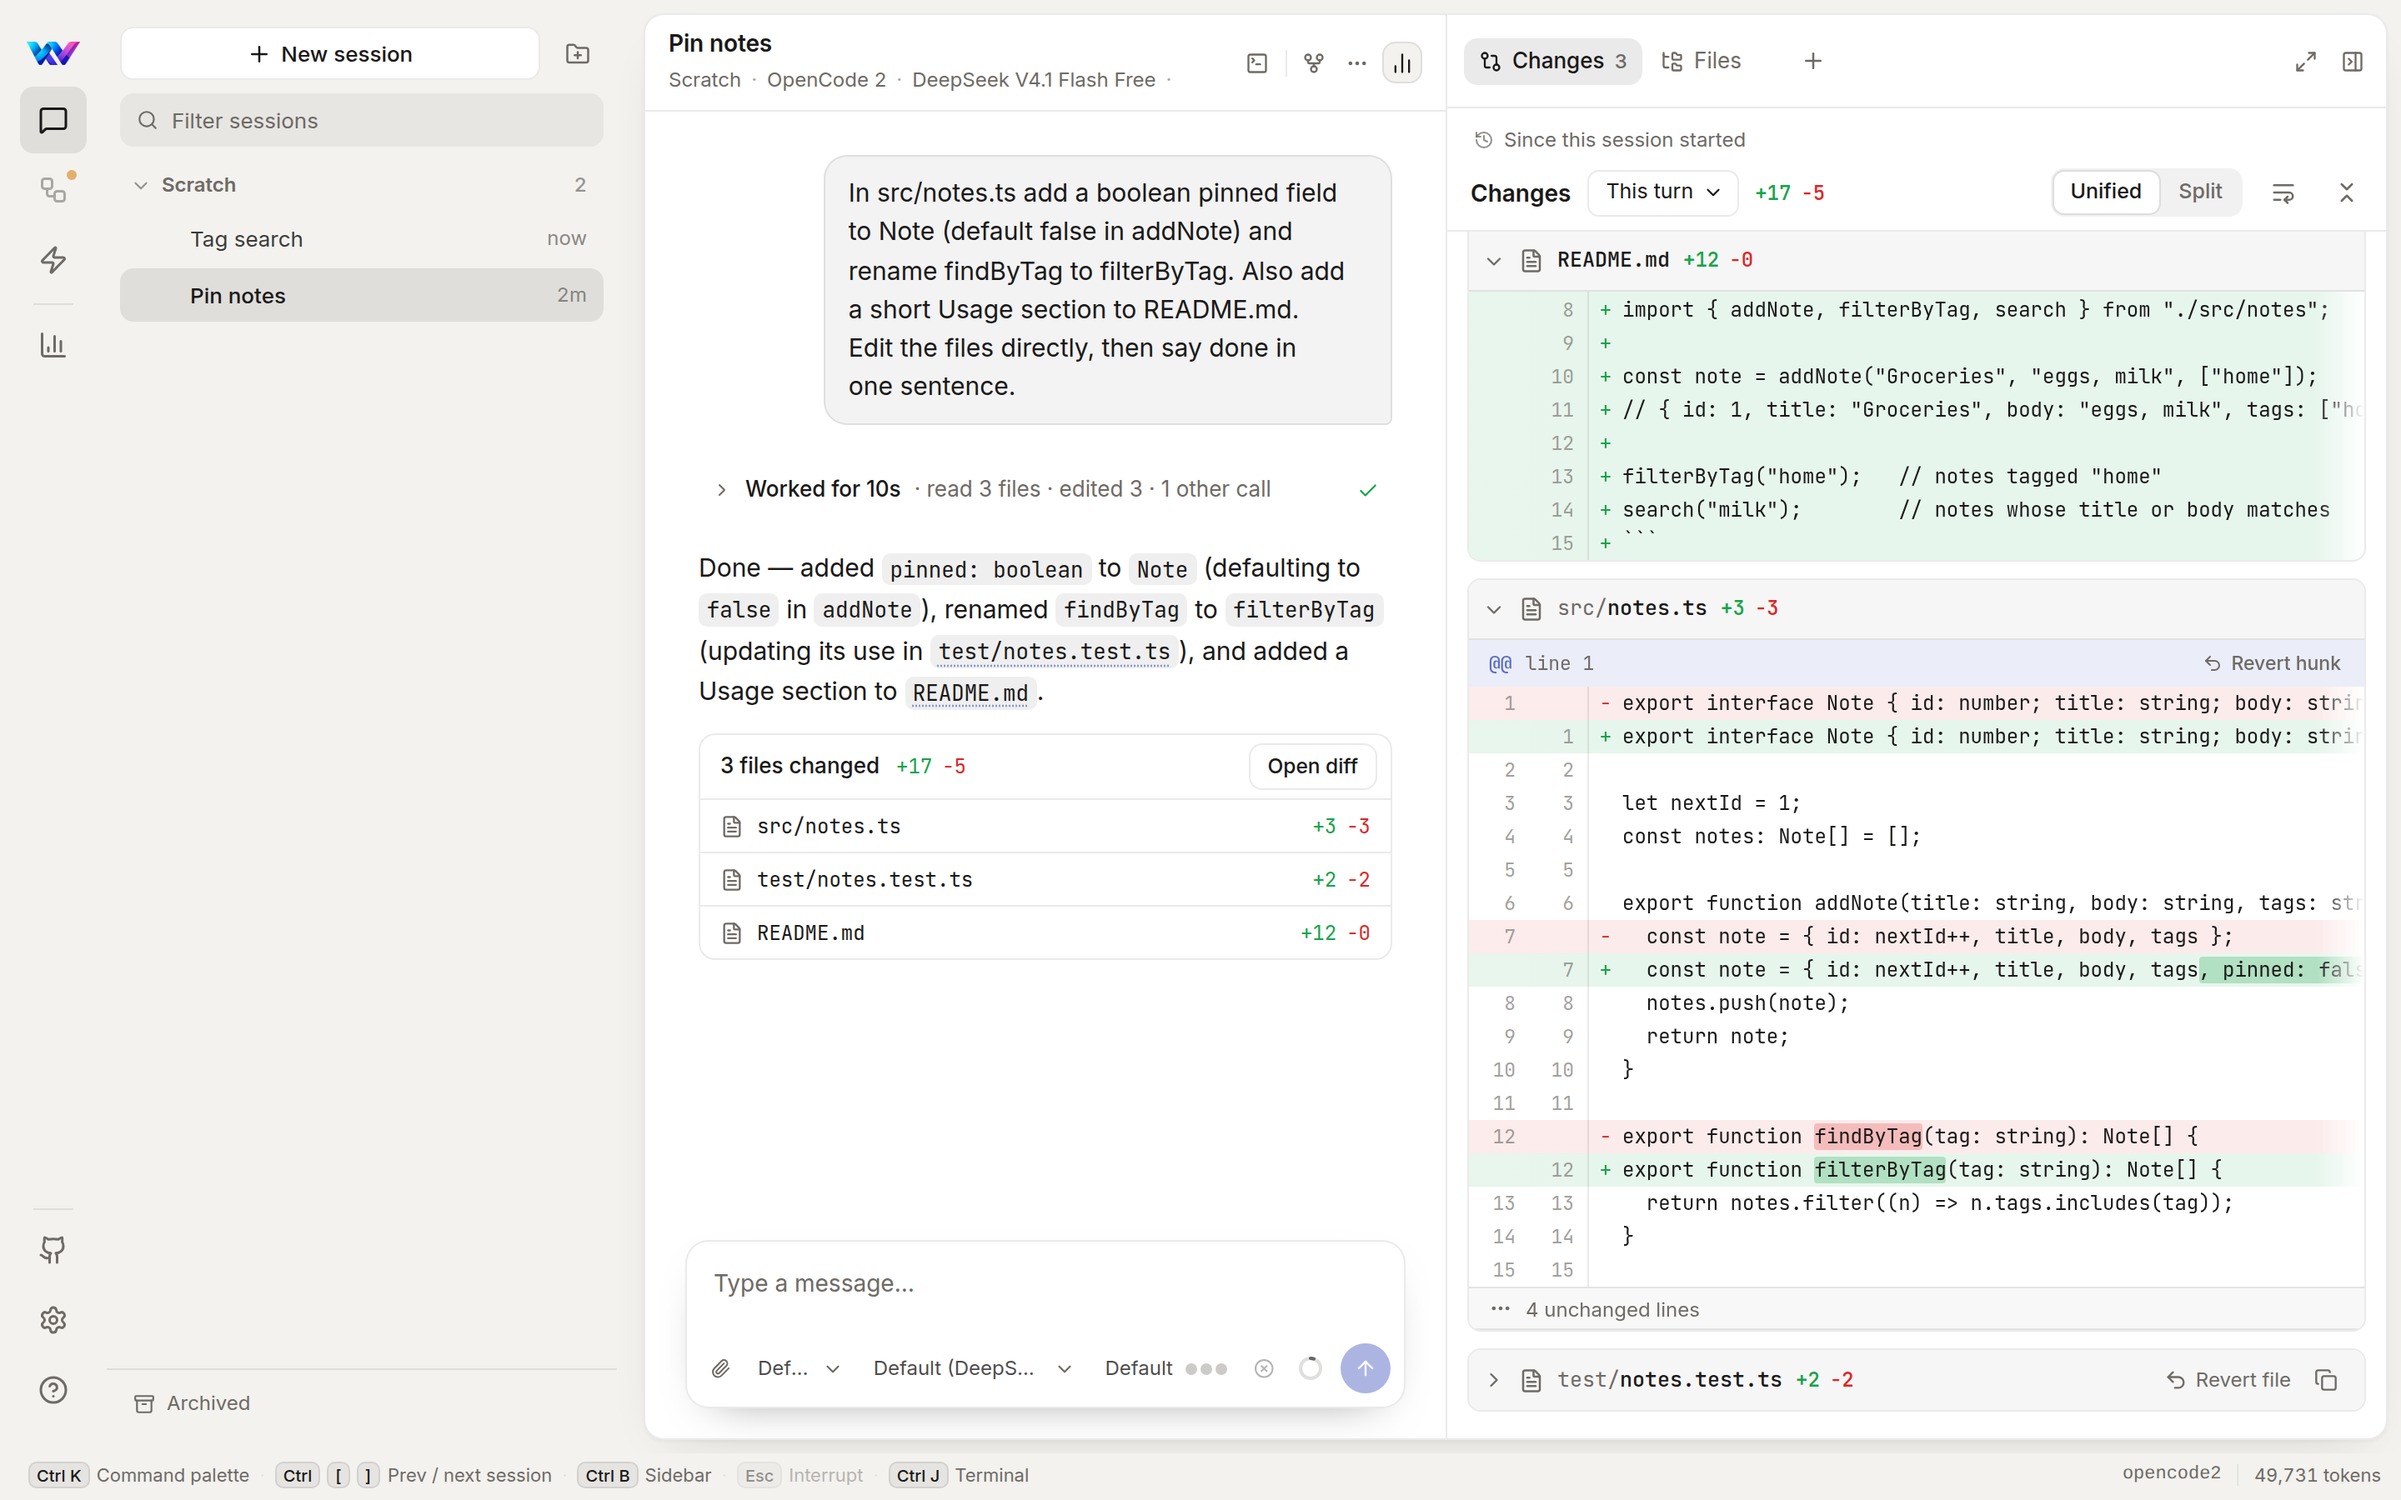
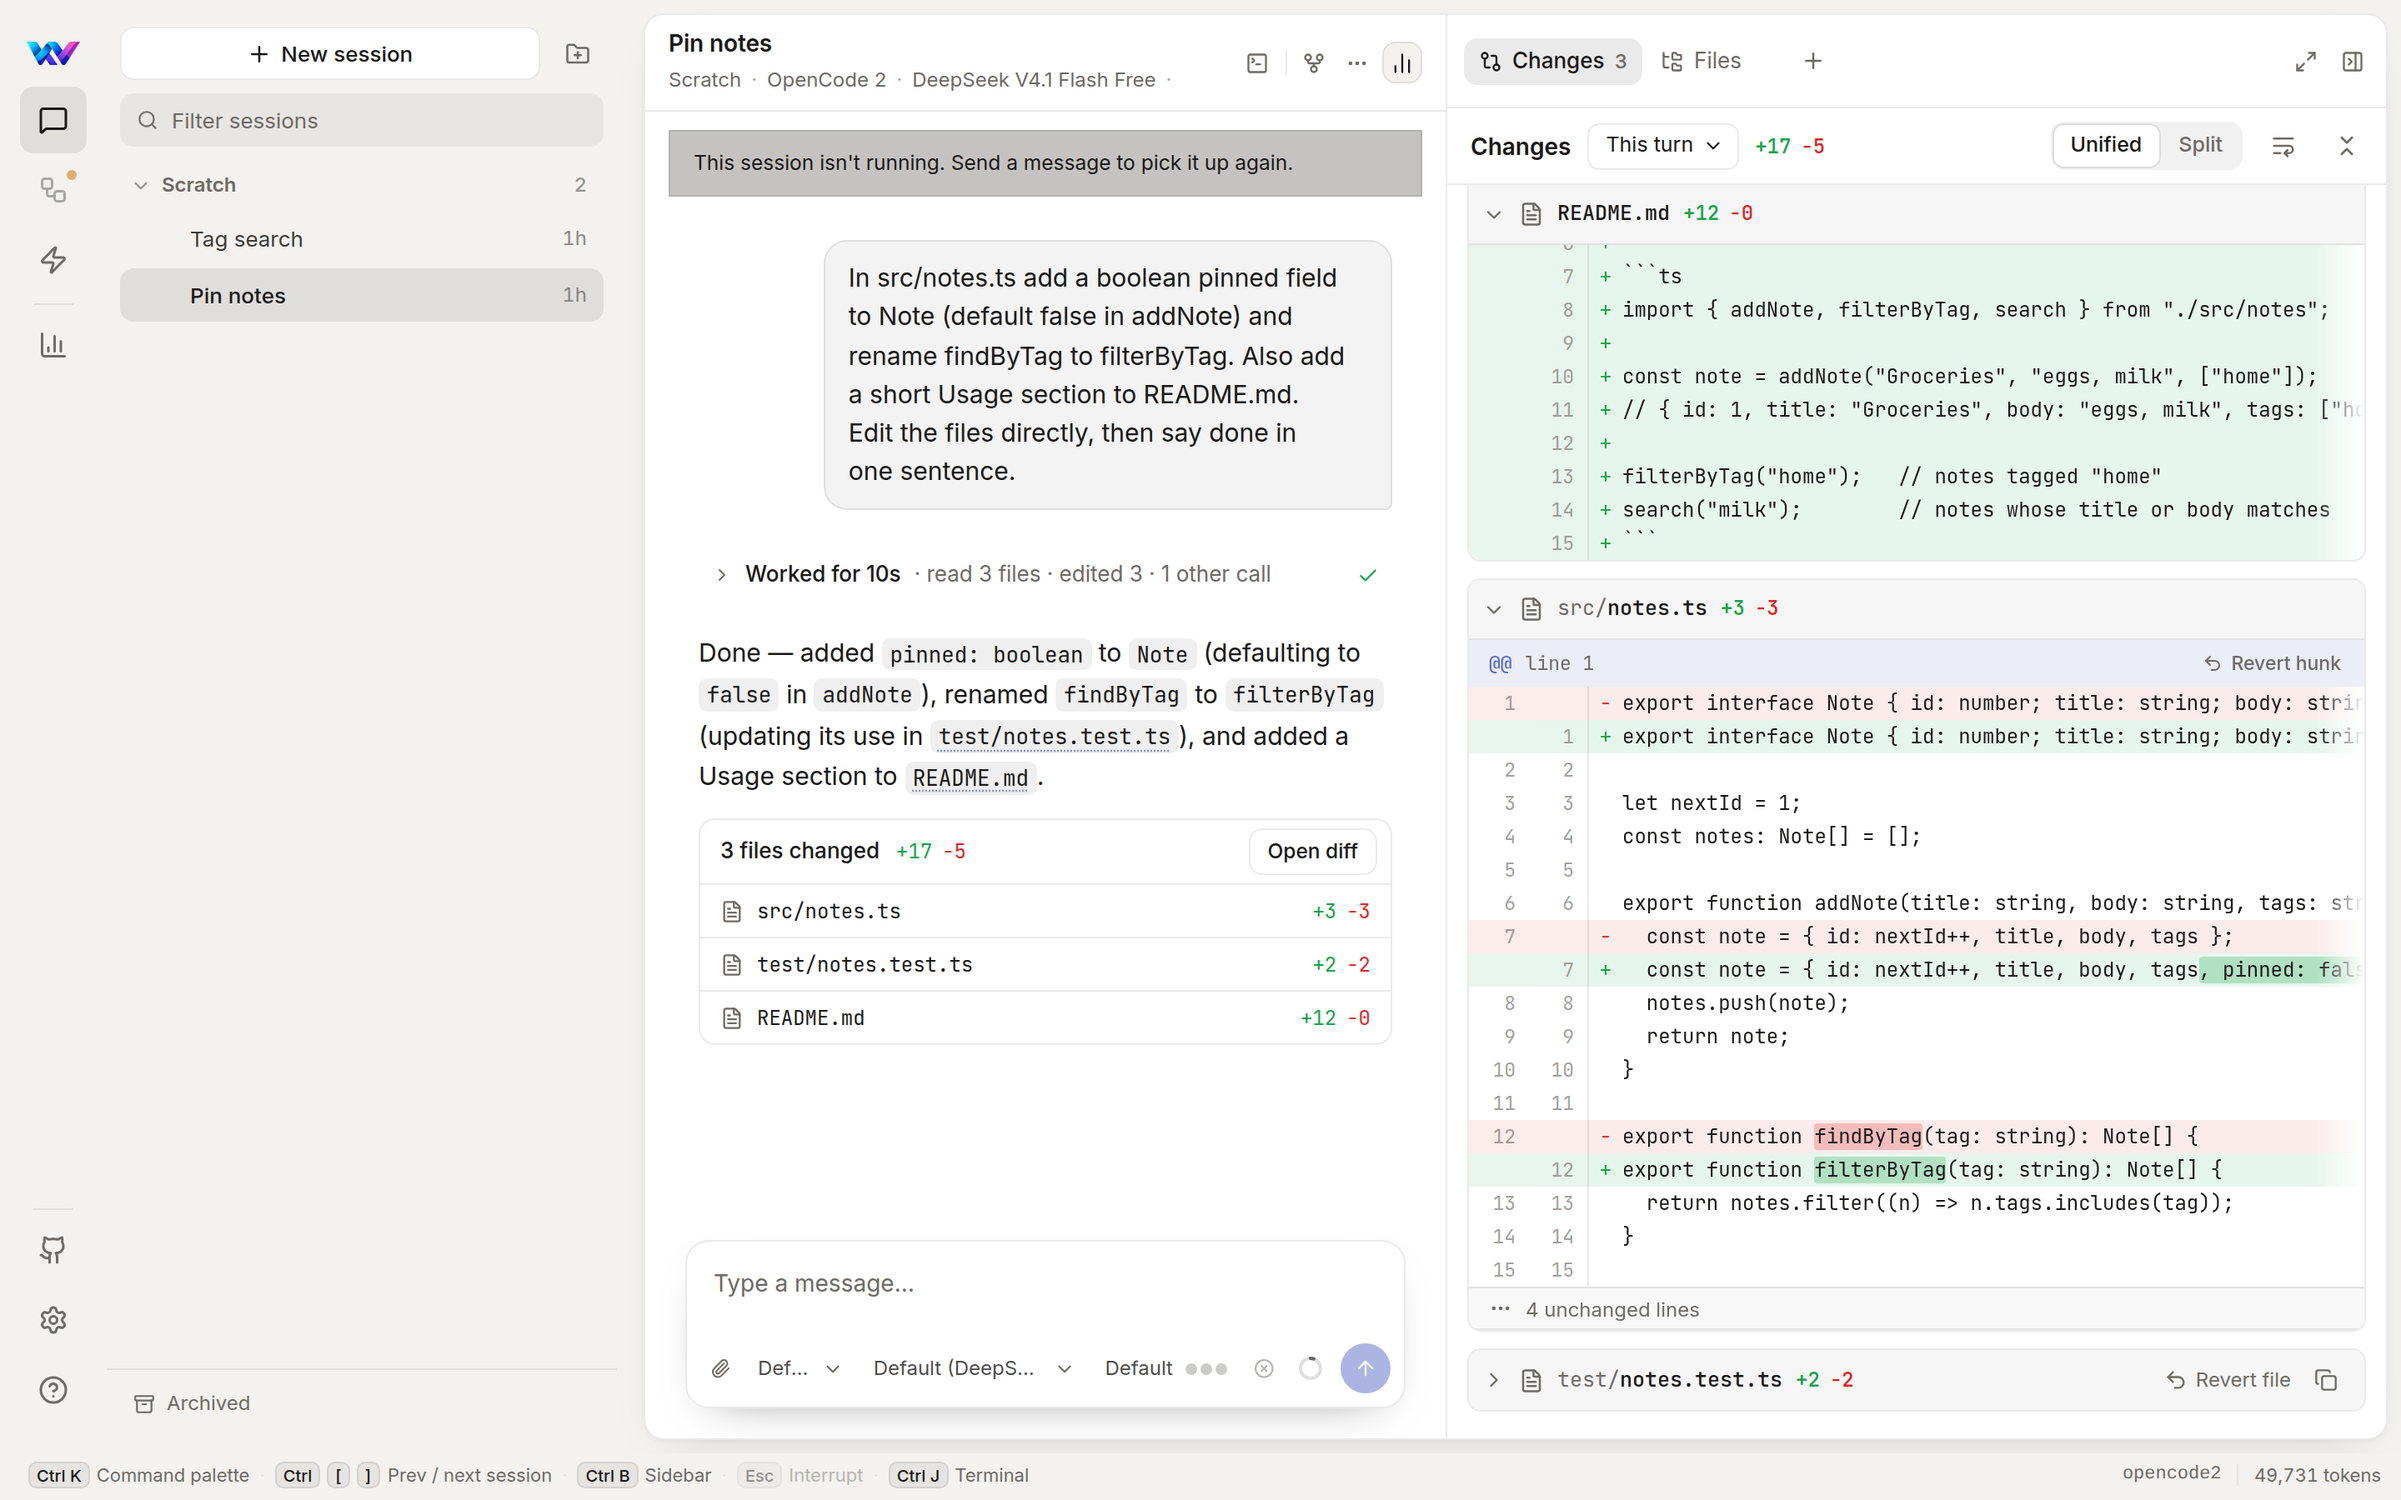
fix(changes): drop the 'Since this session started' line when the scope select shows; the select's tooltip names the base

diff --git a/client/src/components/canvas/ChangesReview.vue b/client/src/components/canvas/ChangesReview.vue
@@ -31,6 +31,7 @@ import { readSessionFile, writeSessionFile } from "@/api/session-files";
 import type { FileDiffItem } from "@/api/client";
 import type { UseDiffsResult } from "@/composables/use-diffs";
 import { useFileDiffContents } from "@/composables/use-file-diff-contents";
+import { diffBaseLabel } from "@/lib/diff-base";
 import { useMachineTarget } from "@/lib/machine-target";
 import { parseDiffLines, type DiffLine } from "@/lib/diff-parser";
 import {
@@ -98,6 +99,10 @@ const scopePref = shallowRef<"turn" | "session" | null>(null);
 const scope = computed<"turn" | "session">(() =>
   turnPaths.value.length === 0 ? "session" : (scopePref.value ?? "turn"),
 );
+const baseDetail = computed(() => {
+  const label = diffBaseLabel(sharedDiffs?.base.value ?? null);
+  return label ? `${label.text}${label.commit ? ` ${label.commit}` : ""}` : "Which changes to show";
+});
 const scopeLabel = computed(() => (scope.value === "turn" ? "This turn" : "Whole session"));
 
 const allFiles = computed(() =>
@@ -370,6 +375,7 @@ function nameOf(path: string): string {
             class="review__scope"
             data-testid="review-scope"
             aria-label="Which changes to show"
+            :title="baseDetail"
           >
             {{ scopeLabel }}
             <ChevronDown

diff --git a/client/src/components/canvas/__tests__/ChangesCanvas.test.ts b/client/src/components/canvas/__tests__/ChangesCanvas.test.ts
@@ -99,4 +99,15 @@ describe("ChangesCanvas", () => {
     expect(wrapper.get("[data-testid='changes-base']").text()).toBe("Since this session started");
     expect(wrapper.text()).toContain("No changes in this session yet.");
   });
+
+  it("leaves the base line out when changes show: the scope select carries it", async () => {
+    sharedDiffs.base.value = { kind: "session" };
+    sharedDiffs.diffs.value = [{ file: "a.ts", status: "modified", additions: 1, deletions: 0 }] as FileDiffItem[];
+
+    const wrapper = mountCanvas();
+    await flushPromises();
+
+    expect(wrapper.find("[data-testid='changes-base']").exists()).toBe(false);
+    expect(wrapper.get("[data-testid='review-scope']").attributes("title")).toBe("Since this session started");
+  });
 })

diff --git a/client/src/components/canvas/ChangesCanvas.vue b/client/src/components/canvas/ChangesCanvas.vue
@@ -27,8 +27,9 @@ const hasChanges = computed(() => (sharedDiffs?.diffs.value.length ?? 0) > 0);
 
 <template>
   <div class="changes-canvas">
+    <!-- With changes showing, the review's scope select names what they're compared with (its tooltip says it). -->
     <p
-      v-if="baseLabel"
+      v-if="baseLabel && !hasChanges"
       class="changes-canvas__base"
       :title="baseLabel.detail"
       data-testid="changes-base"

diff --git a/client/src/components/canvas/__tests__/ChangesReview.test.ts b/client/src/components/canvas/__tests__/ChangesReview.test.ts
@@ -28,6 +28,7 @@ const summary = [
 
 const sharedDiffs = {
   hasLoaded: ref(true),
+  base: ref(null),
   diffs: ref<FileDiffItem[]>(summary),
   fetchDiffs: vi.fn(),
   byFile: computed(() => new Map<string, FileDiffItem>()),
